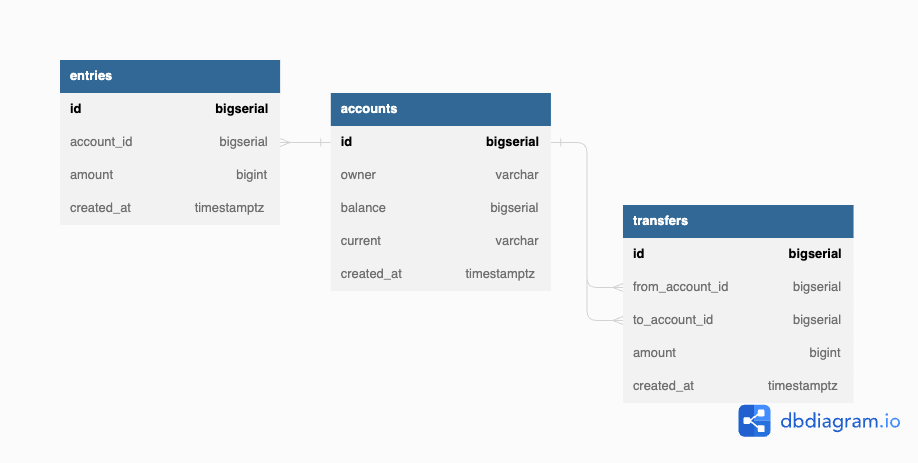
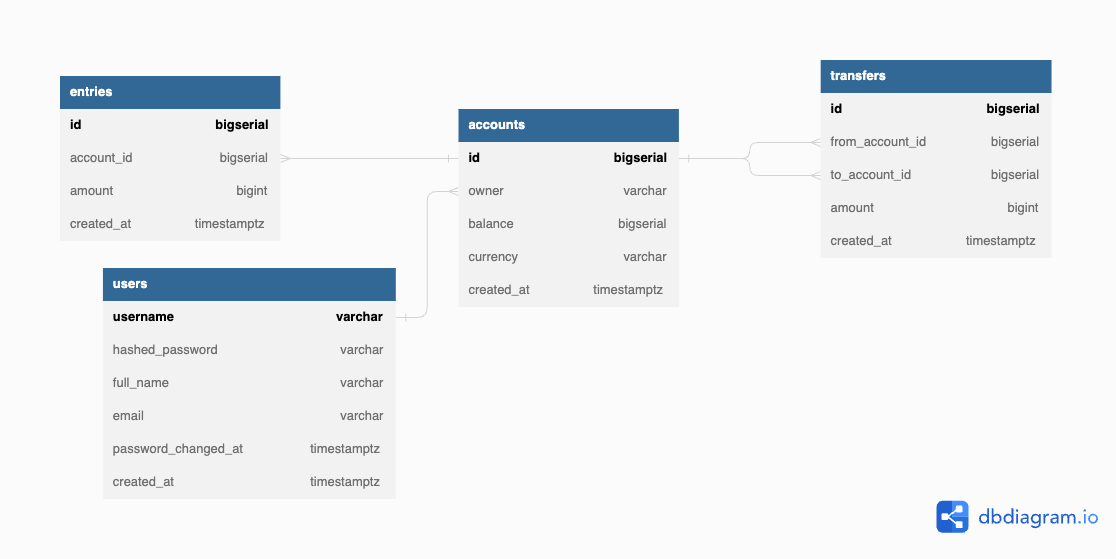
Adding new migration sql files

diff --git a/api/transfer.go b/api/transfer.go
@@ -1,0 +1,67 @@
+package api
+
+import (
+	"database/sql"
+	"fmt"
+	"net/http"
+
+	"github.com/gin-gonic/gin"
+	db "github.com/shivshankarm/bankservice/db/sqlc"
+)
+
+type transferRequest struct {
+	FromAccountID int64  `json:"from_account_id" binding:"required,min=1"`
+	ToAccountID   int64  `json:"to_account_id" binding:"required,min=1"`
+	Amount        int64  `json:"amount" binding:"required,gt=0"`
+	Currency      string `json:"currency" binding:"required,currency"`
+}
+
+func (server *Server) createTransfer(ctx *gin.Context) {
+	var req transferRequest
+	if err := ctx.ShouldBindJSON(&req); err != nil {
+		ctx.JSON(http.StatusBadRequest, errorResponse(err))
+		return
+	}
+
+	if !server.validAccount(ctx, req.FromAccountID, req.Currency) {
+		return
+	}
+	if !server.validAccount(ctx, req.ToAccountID, req.Currency) {
+		return
+	}
+
+	arg := db.TransferTxParams{
+		FromAccountID: req.FromAccountID,
+		ToAccountID:   req.ToAccountID,
+		Amount:        req.Amount,
+	}
+
+	account, err := server.store.TransferTx(ctx, arg)
+	if err != nil {
+		ctx.JSON(http.StatusInternalServerError, errorResponse(err))
+		return
+	}
+
+	ctx.JSON(http.StatusOK, account)
+}
+
+func (server *Server) validAccount(ctx *gin.Context, accountId int64, currency string) bool {
+	account, err := server.store.GetAccount(ctx, accountId)
+	if err != nil {
+		if err == sql.ErrNoRows {
+			ctx.JSON(http.StatusNotFound, errorResponse(err))
+			return false
+		}
+
+		ctx.JSON(http.StatusInternalServerError, errorResponse(err))
+		return false
+	}
+
+	if account.Currency != currency {
+		err := fmt.Errorf("account [%d] currency mismatch: %s vs %s", account.ID, account.Currency, currency)
+		ctx.JSON(http.StatusBadRequest, errorResponse(err))
+		return false
+	}
+
+	return true
+}

diff --git a/api/server.go b/api/server.go
@@ -2,6 +2,8 @@ package api
 
 import (
 	"github.com/gin-gonic/gin"
+	"github.com/gin-gonic/gin/binding"
+	"github.com/go-playground/validator/v10"
 	db "github.com/shivshankarm/bankservice/db/sqlc"
 )
 
@@ -14,35 +16,24 @@ func NewServer(store db.Store) *Server {
 	server := &Server{store: store}
 	router := gin.Default()
 
+	if v, ok := binding.Validator.Engine().(*validator.Validate); ok {
+		v.RegisterValidation("currency", validCurrency)
+	}
+
 	router.POST("/accounts", server.createAccount)
 	router.GET("/accounts/:id", server.getAccount)
 	router.GET("/accounts/", server.listAccount)
 	router.POST("/accounts/", server.updateAccount)
 	router.DELETE("/accounts/:id", server.deleteAccount)
 
+	router.POST("/transfers", server.createTransfer)
+	// router.GET("/transfers/:id", server.getTransfer)
+	// router.GET("/transfers/", server.listTransfer)
+	// router.POST("/transfers/", server.updateTransfer)
+	// router.DELETE("/transfers/:id", server.deleteTransfer)
+
 	server.router = router
 	return server
-}
-
-type createAccountRequest struct {
-	Owner    string `json:"owner" binding:"required"`
-	Currency string `json:"currency" binding:"required,oneof=USD EUR"`
-}
-
-type updateAccountRequest struct {
-	ID      int64 `json:"id" binding:"required,min=1"`
-	Balance int64 `json:"balance" binding:"required"`
-}
-
-type getAccountRequest struct {
-	ID int64 `uri:"id" binding:"required,min=1"`
-}
-type deleteAccountRequest struct {
-	ID int64 `uri:"id" binding:"required,min=1"`
-}
-type listAccountRequest struct {
-	PageId   int32 `form:"page_id" binding:"required,min=1"`
-	PageSize int32 `form:"page_size" binding:"required,min=5,max=10"`
 }
 
 func (server *Server) Start(address string) error {

diff --git a/api/account.go b/api/account.go
@@ -8,6 +8,27 @@ import (
 	db "github.com/shivshankarm/bankservice/db/sqlc"
 )
 
+type createAccountRequest struct {
+	Owner    string `json:"owner" binding:"required"`
+	Currency string `json:"currency" binding:"required,currency"`
+}
+
+type updateAccountRequest struct {
+	ID      int64 `json:"id" binding:"required,min=1"`
+	Balance int64 `json:"balance" binding:"required"`
+}
+
+type getAccountRequest struct {
+	ID int64 `uri:"id" binding:"required,min=1"`
+}
+type deleteAccountRequest struct {
+	ID int64 `uri:"id" binding:"required,min=1"`
+}
+type listAccountRequest struct {
+	PageId   int32 `form:"page_id" binding:"required,min=1"`
+	PageSize int32 `form:"page_size" binding:"required,min=5,max=10"`
+}
+
 func (server *Server) createAccount(ctx *gin.Context) {
 	var req createAccountRequest
 	if err := ctx.ShouldBindJSON(&req); err != nil {

diff --git a/api/validator.go b/api/validator.go
@@ -1,0 +1,13 @@
+package api
+
+import (
+	"github.com/go-playground/validator/v10"
+	"github.com/shivshankarm/bankservice/util"
+)
+
+var validCurrency validator.Func = func(fieldLevel validator.FieldLevel) bool {
+	if currency, ok := fieldLevel.Field().Interface().(string); ok {
+		return util.IsSupportedCurrency(currency)
+	}
+	return false
+}

diff --git a/util/currency.go b/util/currency.go
@@ -1,0 +1,15 @@
+package util
+
+const (
+	USD = "USD"
+	EUR = "EUR"
+	CAD = "CAD"
+)
+
+func IsSupportedCurrency(currency string) bool {
+	switch currency {
+	case USD, EUR, CAD:
+		return true
+	}
+	return false
+}
